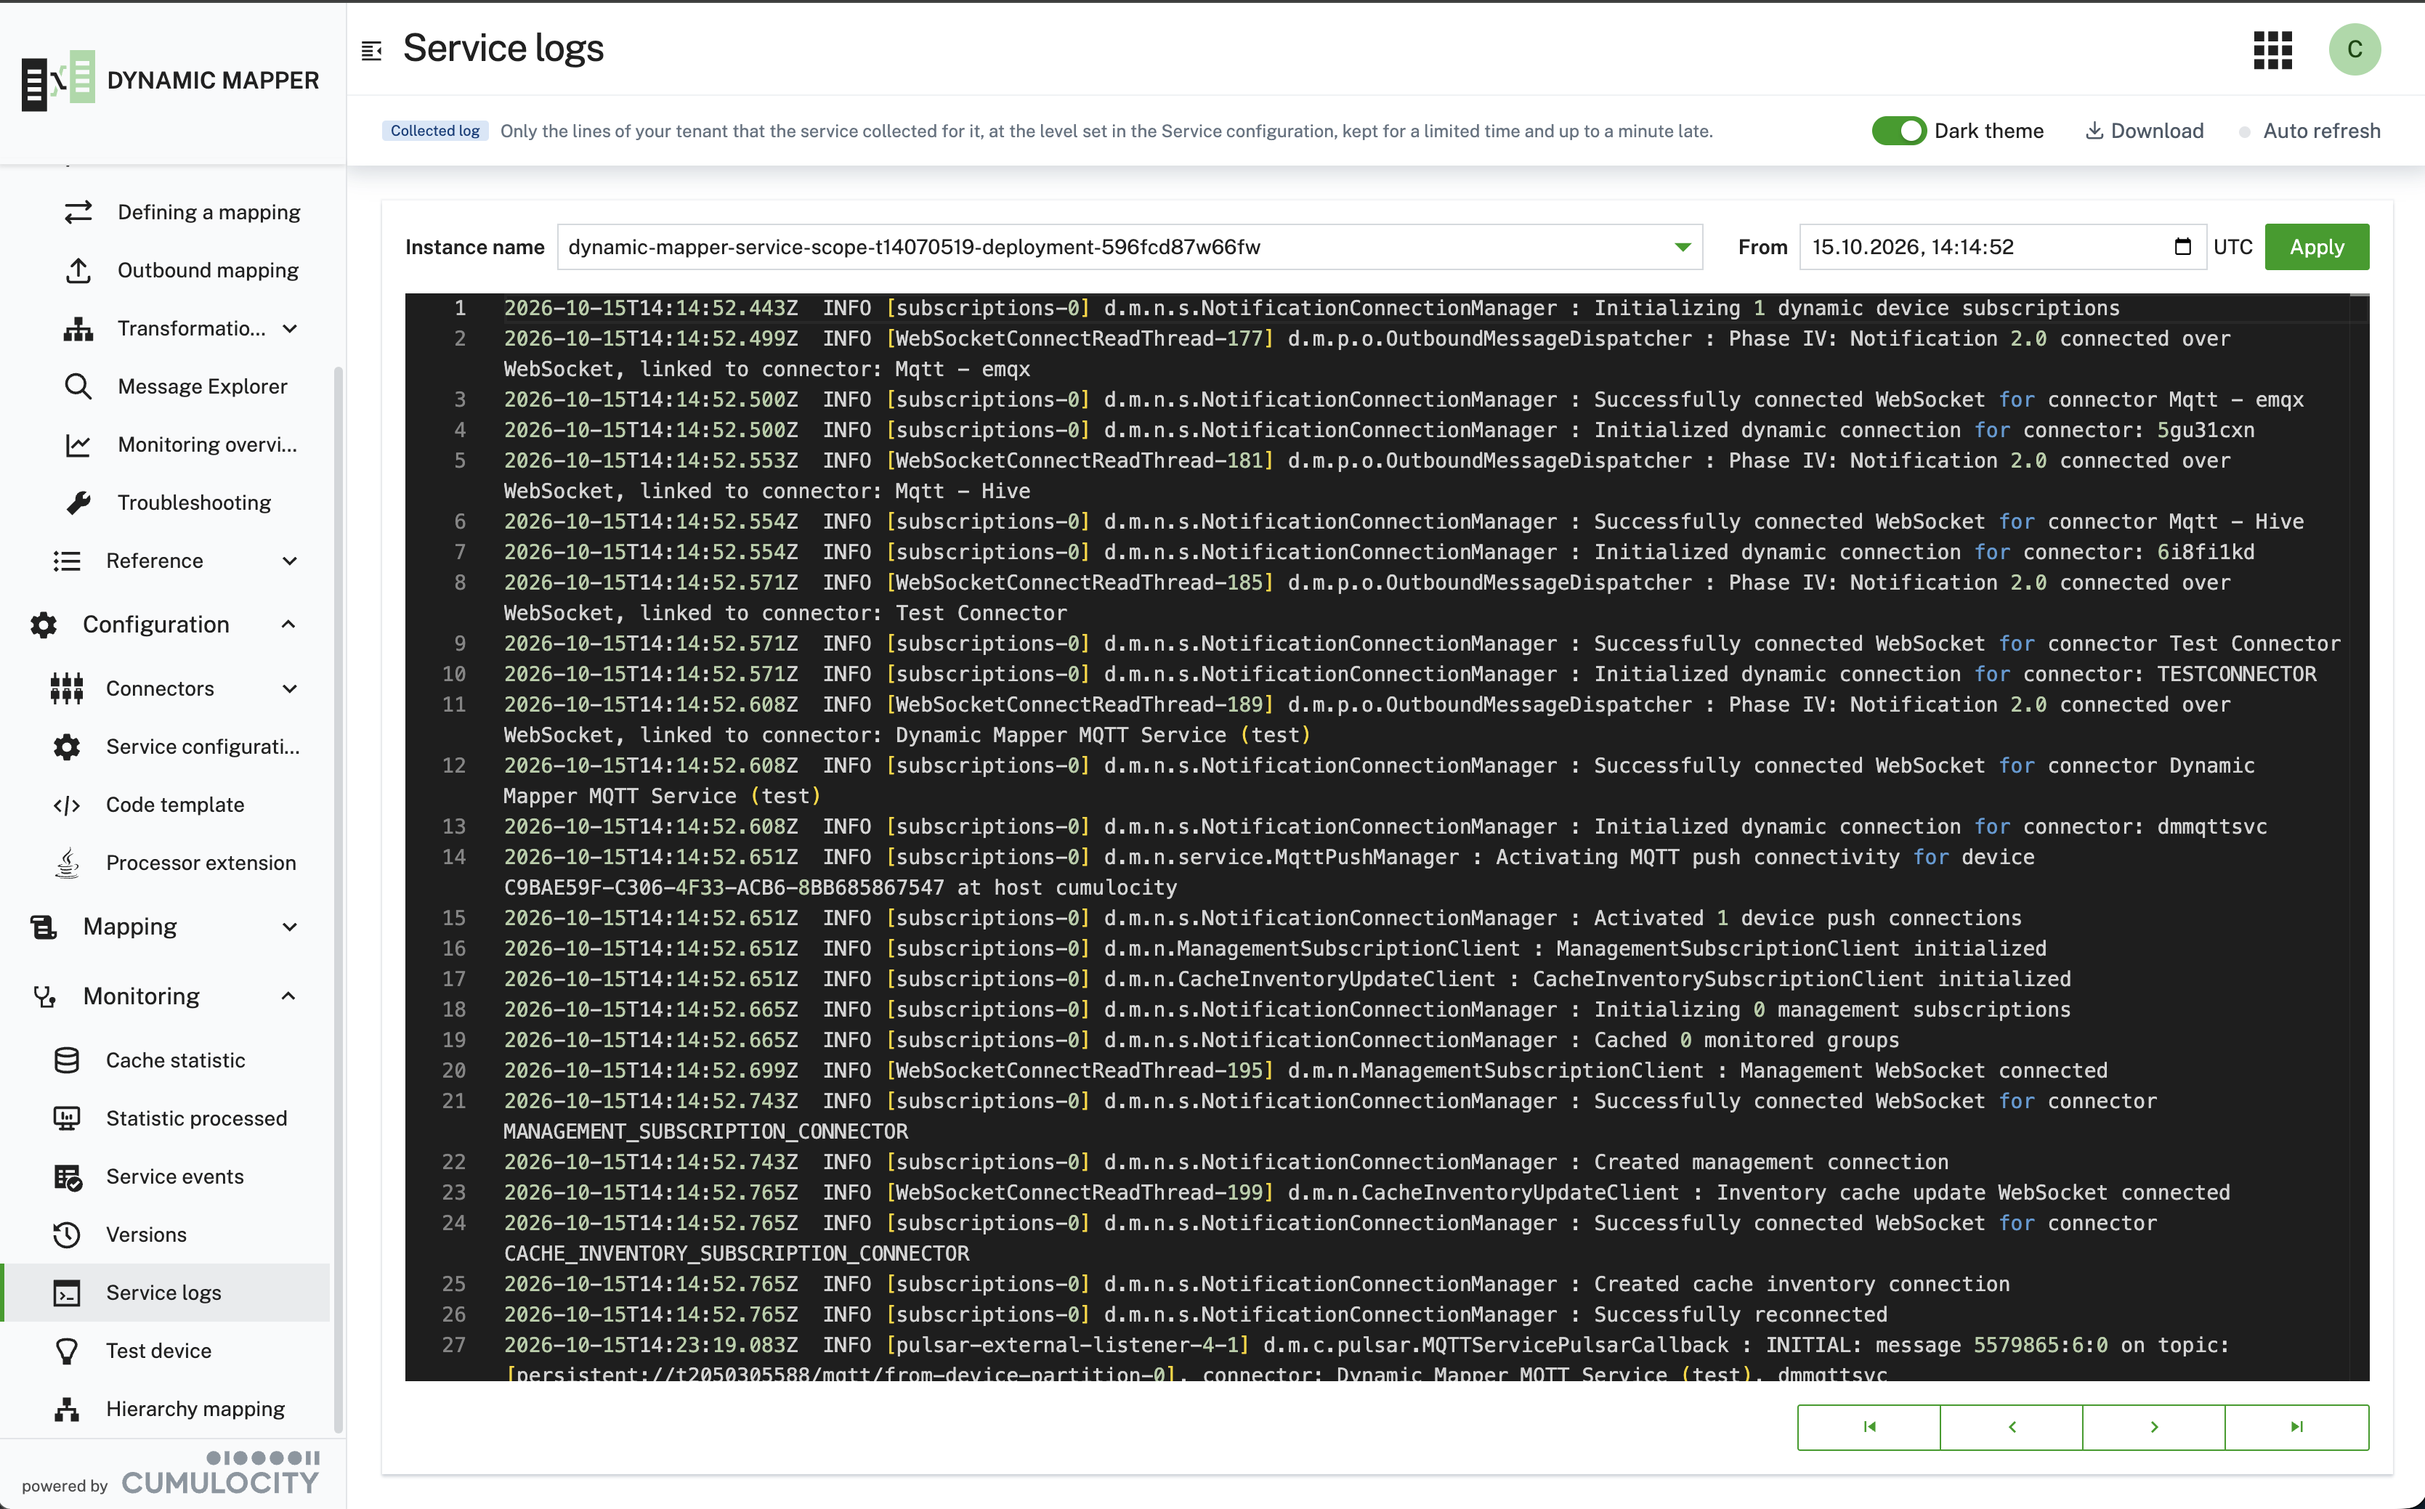
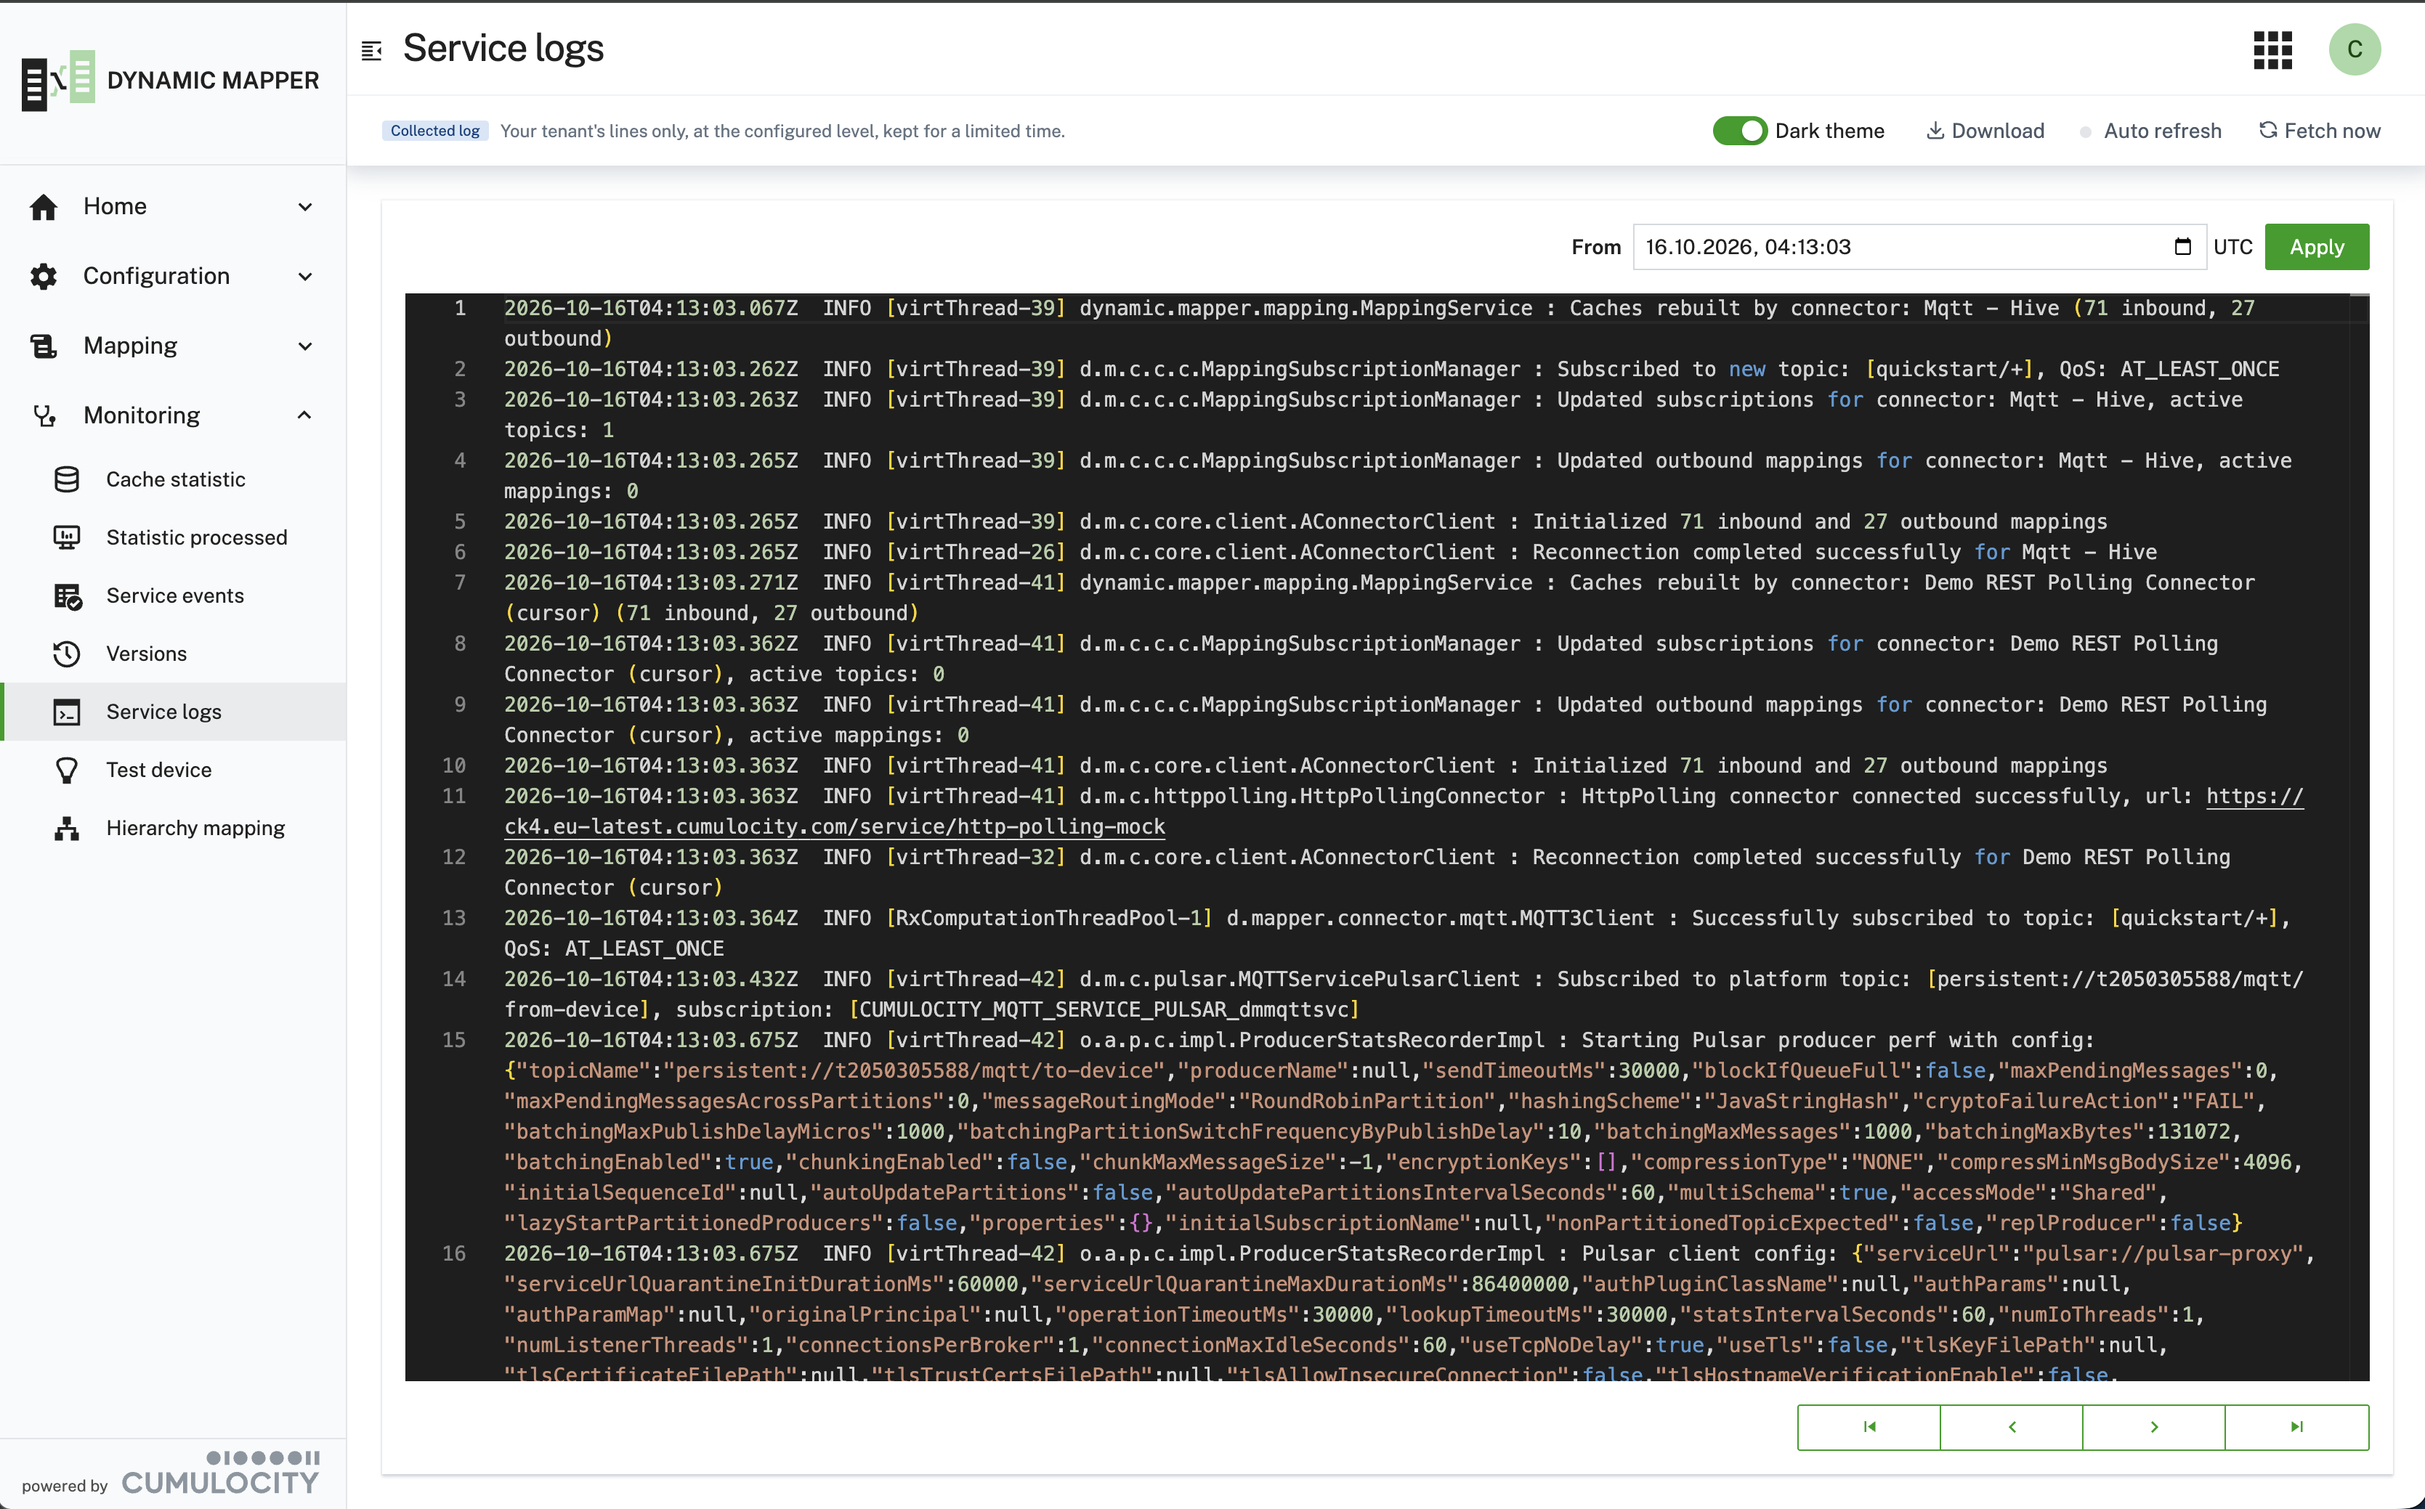
update image

diff --git a/dynamic-mapper-ui/src/monitoring/logs/service-logs.component.html b/dynamic-mapper-ui/src/monitoring/logs/service-logs.component.html
@@ -4,10 +4,7 @@
   <div class="d-flex a-i-center">
     @if (isCollected) {
     <span class="label label-info m-r-8" translate>Collected log</span>
-    <small class="text-muted" translate>
-      Only the lines of your tenant that the service collected for it, at the level set in the Service configuration,
-      kept for a limited time and up to a minute late.
-    </small>
+    <small class="text-muted" translate>Your tenant's lines only, at the configured level, kept for a limited time.</small>
     } @else {
     <span class="label label-default" translate>Platform log</span>
     }
